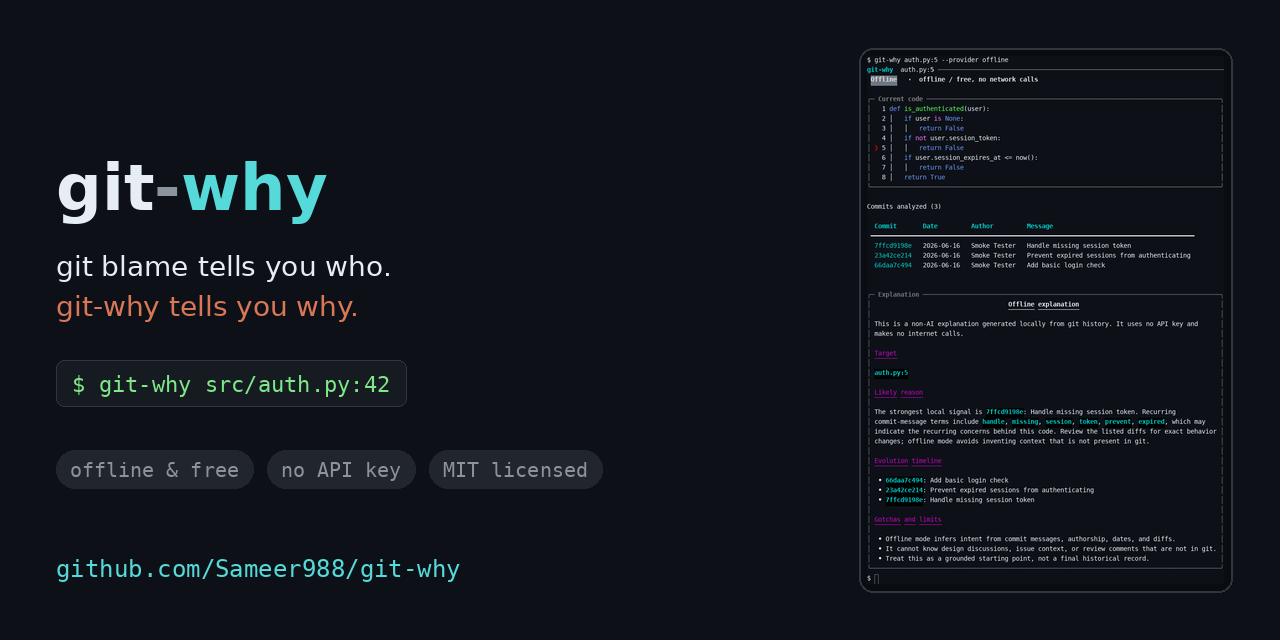
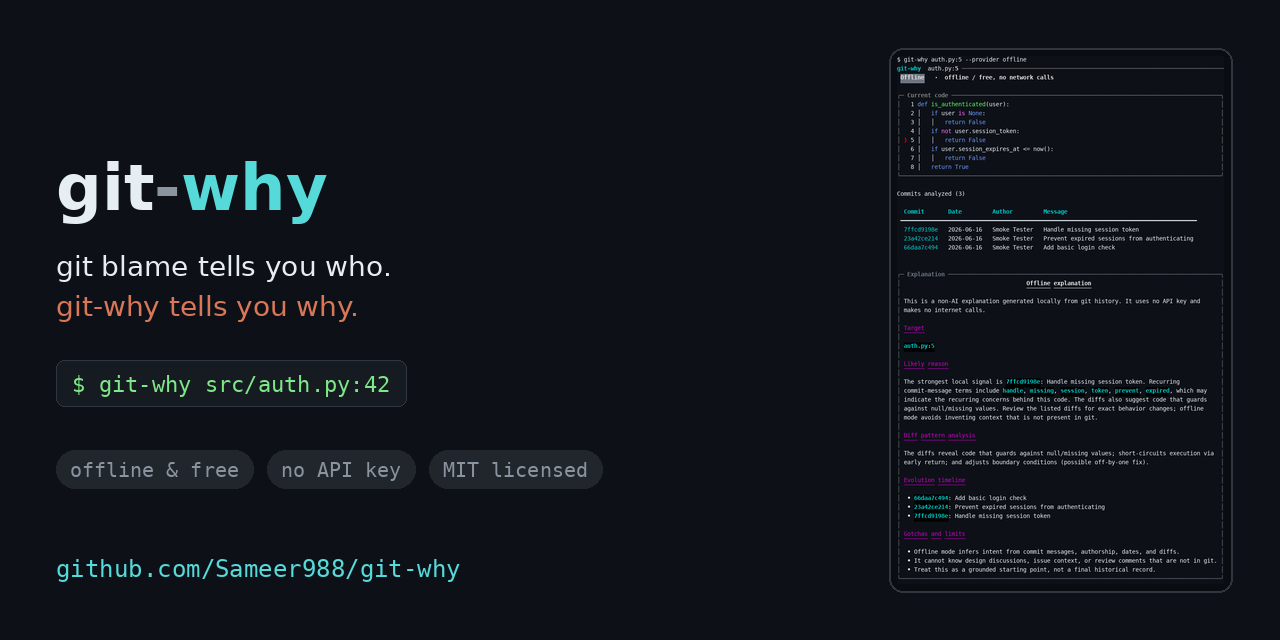
Update demo GIF and social preview with Phase 2 output; add completions to README

Changed region(s): [[0.6562, 0.0625, 0.9688, 0.9062]]

diff --git a/README.md b/README.md
@@ -41,16 +41,39 @@ pip install "git-why[all]"       # all providers
 ## Quick Start
 
 ```bash
-git-why src/auth.py
-git-why src/auth.py:42
-git-why src/auth.py:42-60
-git-why src/auth.py:42 --depth 30
-git-why src/auth.py:42 --context 15
-git-why src/auth.py:42 --verbose
-git-why src/auth.py:42 --provider offline
+git-why src/auth.py                        # whole file
+git-why src/auth.py:42                     # single line
+git-why src/auth.py:42-60                  # line range
+git-why src/auth.py:42 --provider claude   # use Claude for richer explanation
+git-why src/auth.py:42 --depth 30         # inspect more commits
+git-why src/auth.py:42 --verbose           # show raw context
+git-why completions --install              # set up tab completion
 ```
 
 Targets use `FILE`, `FILE:LINE`, or `FILE:START-END`. See the demo above for what the output actually looks like.
+
+## Shell Completions
+
+Tab-complete file paths, `--provider` choices, and all flags.
+
+**Automatic install (detects your shell):**
+```bash
+git-why completions --install
+```
+
+**Manual setup:**
+```bash
+# bash — add to ~/.bashrc
+eval "$(_GIT_WHY_COMPLETE=bash_source git-why)"
+
+# zsh — add to ~/.zshrc
+eval "$(_GIT_WHY_COMPLETE=zsh_source git-why)"
+
+# fish — add to ~/.config/fish/config.fish
+eval (env _GIT_WHY_COMPLETE=fish_source git-why)
+```
+
+Static scripts are also in the [`completions/`](completions/) directory for package managers.
 
 ## Offline And Free Mode
 